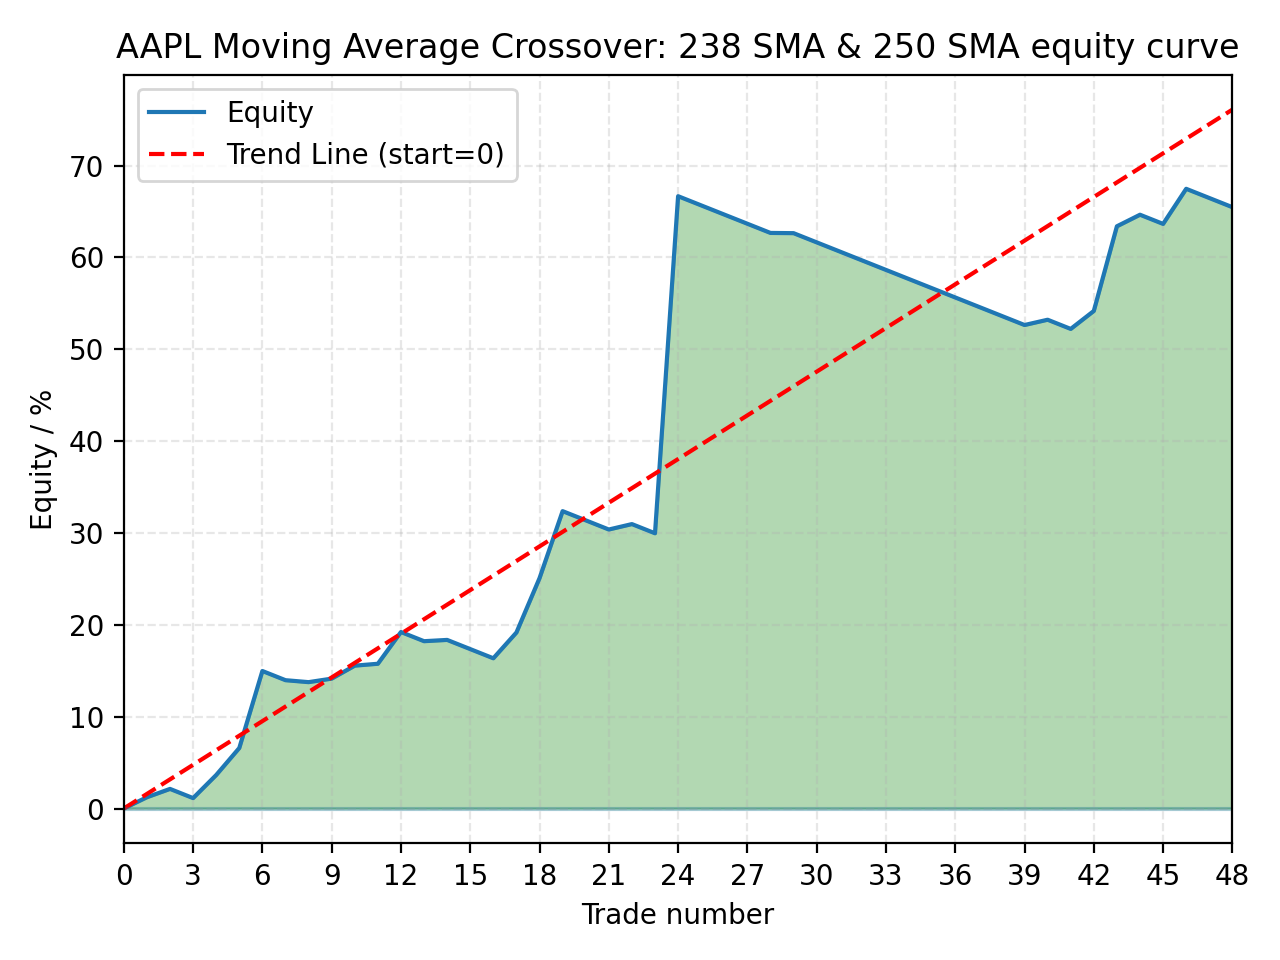
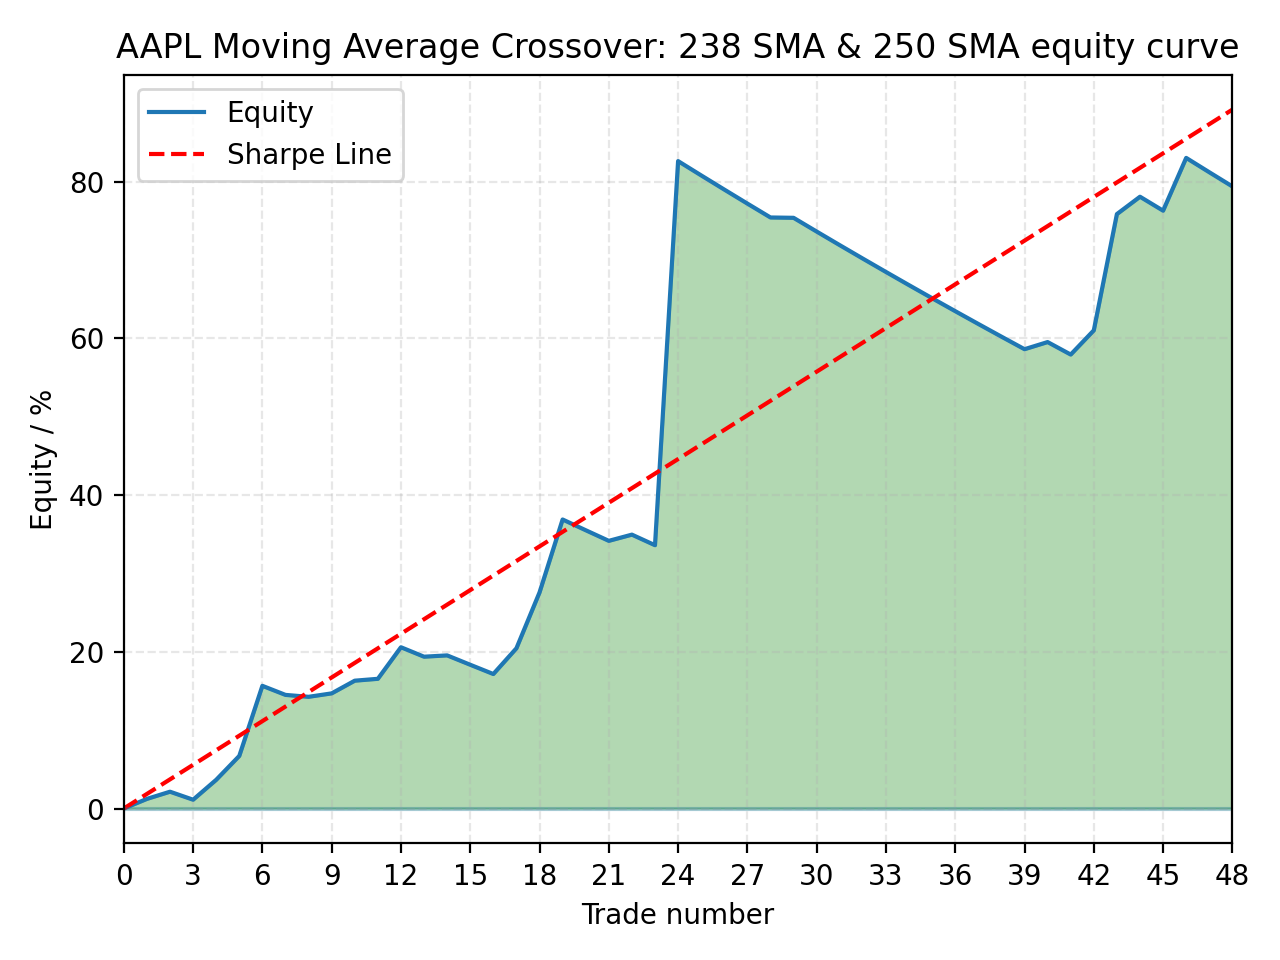
save

diff --git a/testing.py b/testing.py
@@ -21,90 +21,56 @@ risk = 1
 multiplier = 1.5
 
 def test(df, trades, ticker, balance, risk, multiplier):
-    long_values = []
+    # Prompt for number of simulations
     while True:
         try:    
-            div = int(input('How many long SMAs do you want to test: ').strip())
-            for i in range(div):
-                long_SMA = int(input('Choose a value for long SMA: ').strip())
-                long_values.append(long_SMA)
+            num_sims = int(input('How many simulations do you want to run: ').strip())
+            if num_sims > 0:
+                break
+            else:
+                print('Please enter integer greater than 0')
         except ValueError:
             print('Invalid input, please enter an integer') 
-            continue
-        break
     
-    print(long_values)
+    returns = trades['Return'].iloc[1:].values 
+    sim_returns = []
 
-    short_values = {}
-    for i in long_values:
-        short_values[i] = list(range(1,i))
+    for i in range(num_sims):
+        equity = balance
+        equity_curve = [equity]
+        sampled_returns = np.random.choice(returns, size=len(returns), replace=True)
+        for r in sampled_returns:
+            equity *= (1 + r)  # sequential compounding
+            equity_curve.append(equity)
+        sim_returns.append(equity_curve)
 
-    print(short_values)
-
-    results = {}
-
-    for long_SMA, short_list in short_values.items():
-        print(f"\nRunning long SMA = {long_SMA}")
-
-        equity = []
-
-        for short_SMA in tqdm(short_list):
-            df_copy = df.copy(deep=True)
-            signals = strats.sma_cross(df_copy, ticker, not_sim=False, long_SMA=long_SMA, short_SMA=short_SMA)
-            strat_df, trades = functions.backtest(signals, ticker, balance, risk, multiplier, not_sim=False)
-
-            final_equity = trades.iloc[0]['Total PnL %']
-            sharpe = trades.iloc[0]['Annualised Sharpe Ratio']
-
-            equity.append((short_SMA, final_equity, sharpe))
-        
-        results[long_SMA] = equity
-
-
-    for long_SMA, points in results.items():
-        # Unpack tuples
-        shorts = [p[0] for p in points]
-        equity = [p[1] for p in points]
-        sharpe = [p[2] for p in points]
-
-        plt.plot(shorts, equity, label=f'Long SMA: {long_SMA}')
-
+    sim_returns = np.array(sim_returns)
+    sim_curves = (sim_returns - balance) / balance * 100
+    
+    for curve in sim_curves:
+        plt.plot(curve, color='blue', alpha=0.2, linewidth=0.6)
     # x axis
-    max_short = max(p[0] for points in results.values() for p in points)
-    plt.xlim(0, max_short)
     plt.gca().xaxis.set_major_locator(plt.MaxNLocator(nbins=20, integer=True))
-    
-    # Equity plot
-    plt.title(f'{ticker} SMA Grid Search Equity Results')
-    plt.ylabel('Final Equity %')
-    plt.xlabel('Short SMA')
-    plt.grid(True, linestyle='--', alpha=0.4)
-    plt.legend(fontsize=6, markerscale=0.8, handlelength=1.2)
-    plt.axhline(0, linestyle='-', alpha=0.3)
+    plt.xlim(0, len(trades)-1)
+
+    # Calculate statistics
+    mean = np.mean(sim_curves, axis=0)
+    percentile_5 = np.percentile(sim_curves, 5, axis=0)
+    percentile_95 = np.percentile(sim_curves, 95, axis=0)
+    plt.plot(mean, color='orange', linewidth=1.5, label='Mean')
+    plt.plot(percentile_5, color='red', linestyle='--', linewidth=1.2, label='5th Percentile')
+    plt.plot(percentile_95, color='green', linestyle='--', linewidth=1.2, label='95th Percentile')
+    plt.legend()
+
+    plt.title('Monte Carlo Simulated Equity Curves')
+    plt.xlabel('Trade Number')
+    plt.ylabel('Equity %')
+    plt.grid(True, linestyle='--', alpha=0.3)
+    plt.axhline(0, linestyle='-', color='black', linewidth=0.5)
     plt.tight_layout()
-    
-    plt.savefig(f'plots/{ticker}_grid_search_equity.png', dpi=200)
+
+
+    plt.savefig('plots/{ticker} Monte Carlo', dpi=200)
     plt.close()
-
-    # Print top 10 equity returns
-    top_values = []
-    for long_SMA, points in results.items():
-        for short_SMA, equity, sharpe in points:
-            top_values.append({
-                'Long SMA': long_SMA,
-                'Short SMA': short_SMA,
-                'Final Equity %': round(float(equity), 2),
-                'Sharpe Ratio': round(float(sharpe), 2)
-            })
-    
-    results_df = pd.DataFrame(top_values)
-    top10_equity = results_df.sort_values(by='Final Equity %', ascending=False).head(10).reset_index(drop=True)
-    print('Top 10 settings by equity:')
-    print(top10_equity)
-    top10_sharpe = results_df.sort_values(by='Sharpe Ratio', ascending=False).head(10).reset_index(drop=True)
-    print('Top 10 settings by sharpe:')
-    print(top10_sharpe)
-
-    return results
 
 test(df, trades, ticker, balance, risk, multiplier)

diff --git a/functions.py b/functions.py
@@ -62,13 +62,14 @@ def backtest(df, ticker, balance, risk, multiplier, not_sim=True):
         atr(df)
 
     # Create empty trade df
-    trades = pd.DataFrame(columns=['Date', 'Closed', 'Type', 'PnL', 'PnL %', 'SL Hit', 'Cumulative PnL', 'Cumulative %', 'W/L %', 'Total PnL', 'Total PnL %'])
+    trades = pd.DataFrame(columns=['Date', 'Closed', 'Type', 'PnL', 'PnL %', 'SL Hit', 'Return', 'Cumulative PnL', 'Cumulative %', 'W/L %', 'Total PnL', 'Total PnL %'])
 
     dollar_pip = 0
     row_index = 0
     first_candle = True
     buy = False
     sell = False
+    equity = balance
     # Loop through each row of the dataframe
     for i in range(1, len(df)):
         # Set the distance moved by each candle
@@ -85,13 +86,16 @@ def backtest(df, ticker, balance, risk, multiplier, not_sim=True):
                 trades.loc[row_index, 'Closed'] = df.loc[i, 'Date']
                 # Stoploss not hit
                 trades.loc[row_index, 'SL Hit'] = False
+                # Set return (pnl/current equity)
+                trades.loc[row_index, 'Return'] = trades.loc[row_index, 'PnL'] / equity
                 # Reset trade
                 first_candle = True
+                equity += trades.loc[row_index, 'PnL']
                 row_index += 1
             # Variables
             pips = df.loc[i, 'ATR'] * multiplier
             stop = df.loc[i, 'Close'] - pips
-            dollar_pip = (balance * (risk/100)) / pips
+            dollar_pip = (equity * (risk/100)) / pips
             # Append to trades dataframe
             if 'Date' in df.columns:
                 trades.loc[row_index, 'Date'] = df.loc[i, 'Date']
@@ -112,13 +116,16 @@ def backtest(df, ticker, balance, risk, multiplier, not_sim=True):
                 trades.loc[row_index, 'Closed'] = df.loc[i, 'Date']
                 # Stoploss not hit
                 trades.loc[row_index, 'SL Hit'] = False
+                # Set return (pnl/current equity)
+                trades.loc[row_index, 'Return'] = trades.loc[row_index, 'PnL'] / equity
                 # Reset trade
                 first_candle = True
+                equity += trades.loc[row_index, 'PnL']
                 row_index += 1
             # Variables
             pips = df.loc[i, 'ATR'] * multiplier
             stop = df.loc[i, 'Close'] + pips
-            dollar_pip = (balance * (risk/100)) / pips
+            dollar_pip = (equity * (risk/100)) / pips
             # Append to trades dataframe
             if 'Date' in df.columns:
                 trades.loc[row_index, 'Date'] = df.loc[i, 'Date']
@@ -152,9 +159,12 @@ def backtest(df, ticker, balance, risk, multiplier, not_sim=True):
                 trades.loc[row_index, 'Closed'] = df.loc[i, 'Date']
                 # Stoploss not hit
                 trades.loc[row_index, 'SL Hit'] = True
+                # Set return (pnl/current equity)
+                trades.loc[row_index, 'Return'] = trades.loc[row_index, 'PnL'] / equity
                 # Reset trade
                 buy = False
                 first_candle = True
+                equity += trades.loc[row_index, 'PnL']
                 row_index += 1
         if sell:
             if df.loc[i, 'High'] >= stop:
@@ -163,9 +173,12 @@ def backtest(df, ticker, balance, risk, multiplier, not_sim=True):
                 trades.loc[row_index, 'Closed'] = df.loc[i, 'Date']
                 # Stoploss not hit
                 trades.loc[row_index, 'SL Hit'] = True
+                # Set return (pnl/current equity)
+                trades.loc[row_index, 'Return'] = trades.loc[row_index, 'PnL'] / equity
                 # Reset trade
                 sell = False
                 first_candle = True
+                equity += trades.loc[row_index, 'PnL']
                 row_index += 1
 
     if trades.empty:
@@ -197,15 +210,15 @@ def backtest(df, ticker, balance, risk, multiplier, not_sim=True):
     trades.loc[0, 'Max Drawdown %'] = drawdown.min()
         
     # Sharpe ratio annualised
-    sharpe_pnl = trades.iloc[1:]['PnL %'] / 100
-    mean_pnl = sharpe_pnl.mean()
-    std_pnl = sharpe_pnl.std()
+    sharpe_return = trades.iloc[1:]['Return'] 
+    mean_return = sharpe_return.mean()
+    std_return = sharpe_return.std()
 
     # Avoids dividing by 0 error
-    if std_pnl == 0:
+    if std_return == 0:
         sharpe_ratio = 0
     else:
-        sharpe_ratio = mean_pnl / std_pnl
+        sharpe_ratio = mean_return / std_return
 
     # Annualisation
     df['Date'] = pd.to_datetime(df['Date'])
@@ -252,7 +265,7 @@ def backtest(df, ticker, balance, risk, multiplier, not_sim=True):
         plt.tight_layout() # Remove white space
         plt.savefig(f'plots/{df.loc[0, 'name']}_equity_curve.png', dpi=200)
         plt.close()
-    
+
     return df, trades
     
 def exit_script():

diff --git a/main.py b/main.py
@@ -178,6 +178,9 @@ if sim_answer:
         print('No simulations found.')
         sys.exit()
 
+#FOR TESTING!!!!!!!!!!!!!!!!!!!!!!!!!!!!!!!!!!
+print(trades[['Date', 'Closed', 'Return']])
+trades.to_csv(f"trades.csv", index=False)
     
 # Closes script
 functions.exit_script()
